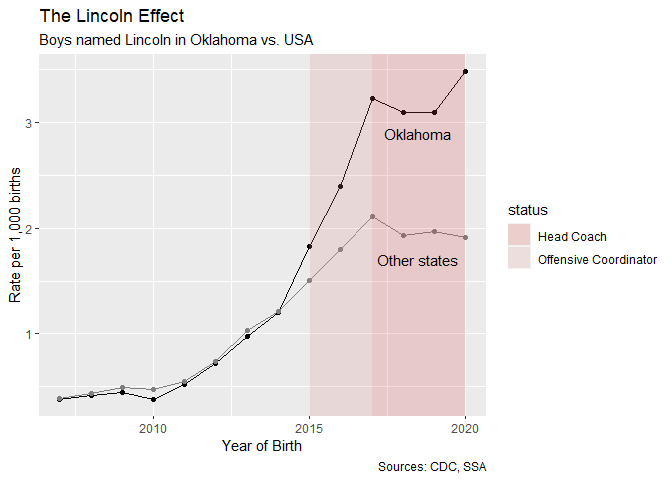
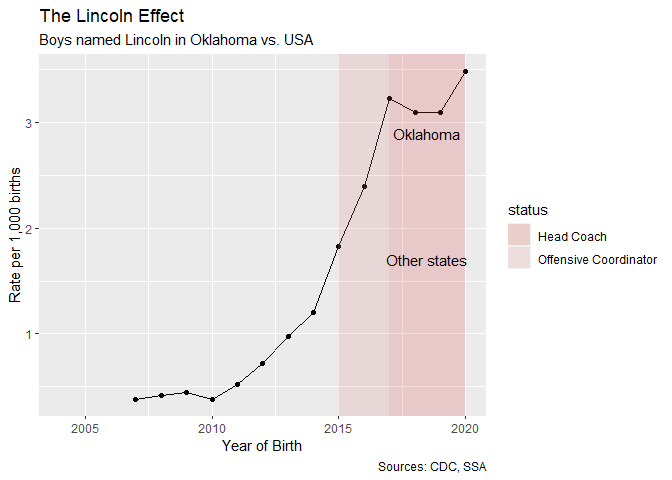
OSU 37, OU 33

diff --git a/baby_names.md b/baby_names.md
@@ -78,10 +78,7 @@ OK, first let’s check the popularity of Lincoln.
 
 ``` r
 raw_imported_ready %>%
-  filter(name=="Lincoln") %>%
-  filter(sex=="M") %>%
-  filter(state=="OK") %>%
-  filter(birth_year >= 2000) %>%
+  filter(name=="Lincoln" & sex=="M" & state=="OK" & birth_year >= 2000) %>%
   ggplot(aes(x=birth_year, y=count)) + 
   geom_line() +
   geom_point() + 
@@ -142,9 +139,7 @@ And let’s put it all together.
 
 ``` r
 finished_data <- raw_imported_ready %>%
-  filter(name=="Lincoln") %>%
-  filter(sex=="M") %>%
-  filter(birth_year >= 2007) %>%
+  filter(name=="Lincoln" & sex=="M" & state=="OK" & birth_year >= 2000) %>%
   left_join(natality_07_20_ready, by=c("state" = "state_abbrev", "birth_year" = "year_code")) %>%
   select(state, birth_year, count, births) %>%
   mutate(rate_per_1000 = (count / births) * 1000) 
@@ -170,6 +165,10 @@ finished_data %>%
   ylab("Rate per 1,000 births") +
   labs(title="The Lincoln Effect", subtitle = "Boys named Lincoln in Oklahoma", caption="Sources: CDC, Social Security Administration")
 ```
+
+    ## Warning: Removed 3 row(s) containing missing values (geom_path).
+
+    ## Warning: Removed 3 rows containing missing values (geom_point).
 
 ![](baby_names_files/figure-gfm/unnamed-chunk-12-1.png)<!-- -->
 
@@ -214,6 +213,10 @@ finished_data %>%
     ## Scale for 'x' is already present. Adding another scale for 'x', which will
     ## replace the existing scale.
 
+    ## Warning: Removed 3 row(s) containing missing values (geom_path).
+
+    ## Warning: Removed 3 rows containing missing values (geom_point).
+
 ![](baby_names_files/figure-gfm/unnamed-chunk-14-1.png)<!-- -->
 
 That’s kind of ugly. Let’s try another method.
@@ -255,6 +258,10 @@ ggplot(oklahoma_data) +
   annotate("text", x = 2018.5, y = 1.7, label = "Other states") +
   annotate("text", x = 2018.5, y = 2.9, label = "Oklahoma") 
 ```
+
+    ## Warning: Removed 3 row(s) containing missing values (geom_path).
+
+    ## Warning: Removed 3 rows containing missing values (geom_point).
 
 ![](baby_names_files/figure-gfm/unnamed-chunk-17-1.png)<!-- -->
 
